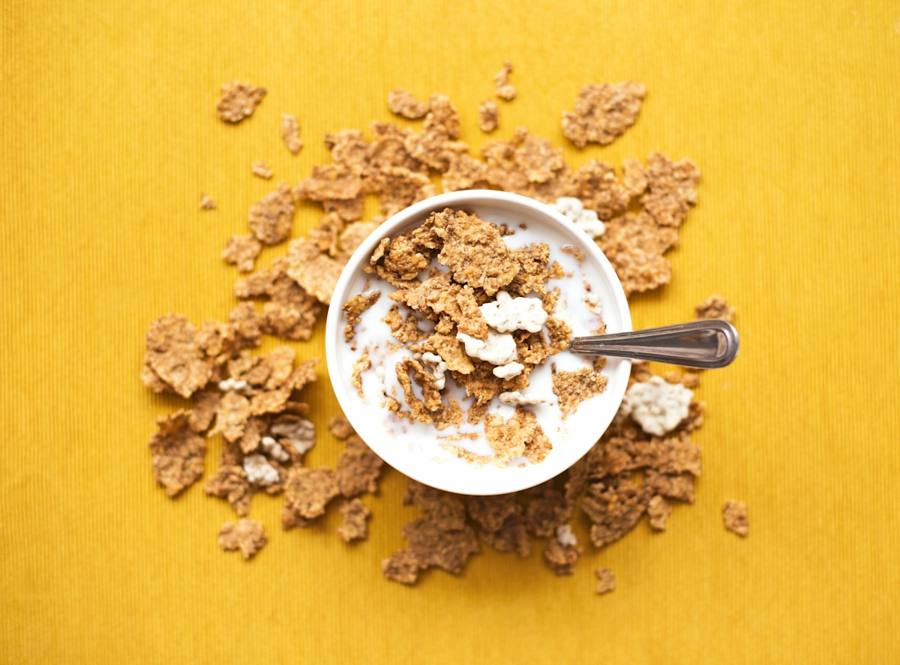
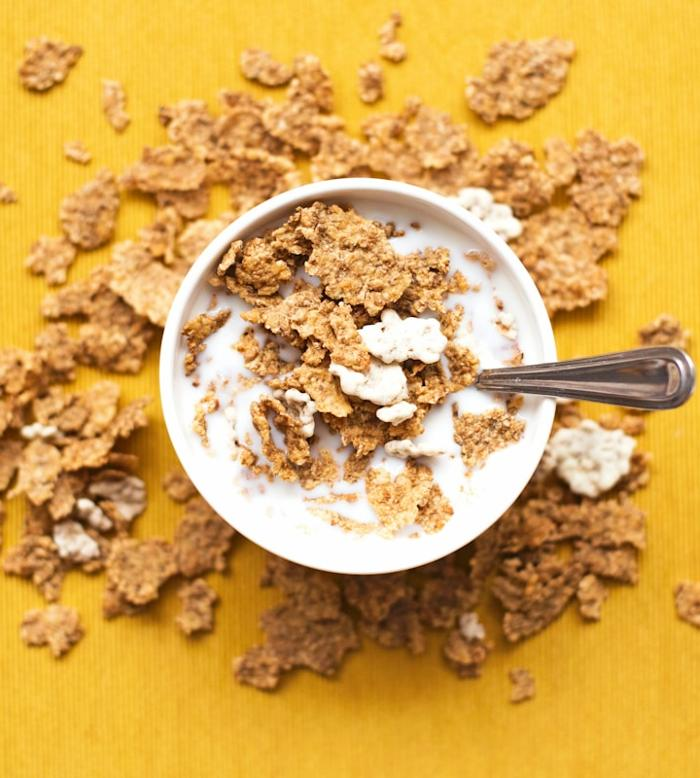
Export: resolve Daily Log Food name/Barcode (auto); centre bg bowl
Export: the fresh workbook left Daily Log F/G (Food name / Barcode "auto")
blank because it has no INDEX/MATCH formulas — so the dietitian saw a bare
code per occasion. Now resolves them to static values from the Library by
code (photo entries with no code stay blank). Library J/K (Times used /
Check) still left to the template's aggregates. +2 tests.

Background: re-crop cereal-bg.jpg so the bowl is dead-centre both axes
(was ~52%/53%, reading off-centre). CACHE_NAME v32->v33.

diff --git a/js/export.js b/js/export.js
@@ -25,9 +25,16 @@ function writeHeaders(XLSX, ws, headers, row) {
 }
 
 /** Builds a fresh workbook matching files/nutritics-food-diary-v2.xlsx's
- * schema. Only ever writes the manual-entry columns — never the template's
- * own formula columns (Library J/K, Log F/G) — same rule scan_to_diary.py
- * follows, so the same free-row-detection bug can't recur here either.
+ * schema. Writes the manual-entry columns, PLUS resolves the Daily Log's
+ * "Food name (auto)" / "Barcode (auto)" columns (F/G) to static values from
+ * the Library — because this is a FRESH sheet with no INDEX/MATCH formulas to
+ * auto-fill them, so leaving them blank would force the dietitian to cross-
+ * reference every code by hand. (scan_to_diary.py leaves F/G alone because it
+ * appends to a template copy whose formulas already fill them; the PWA has no
+ * such formulas, so it fills the values itself. Library J/K — Times used /
+ * Check — are still left blank; those are cross-row aggregates the template's
+ * own formulas own, and the How-to-use Progress panel already derives the
+ * search-saving count from the Library/Log row counts.)
  * Optional guideSheets ({ howToUse, lists }, from loadGuideSheets) carries
  * the template's "How to use" and "Lists" tabs through untouched. */
 export function buildWorkbook(XLSX, { foods, logEntries, guideSheets }) {
@@ -50,13 +57,19 @@ export function buildWorkbook(XLSX, { foods, logEntries, guideSheets }) {
     if (f.nameUnconfirmed) setCell(XLSX, lib, row, LIBRARY_NOTE_COL, 'NAME UNCONFIRMED — verify against packet');
   });
 
+  const foodByCode = Object.fromEntries(foods.map((f) => [f.code, f]));
   logEntries.forEach((e, i) => {
     const row = LOG_FIRST_DATA_ROW + i;
+    const food = foodByCode[e.foodCode];
     setCell(XLSX, log, row, 1, e.day);
     setCell(XLSX, log, row, 2, e.date);
     setCell(XLSX, log, row, 3, e.meal);
     setCell(XLSX, log, row, 4, e.time);
     setCell(XLSX, log, row, 5, e.foodCode);
+    if (food) {
+      setCell(XLSX, log, row, 6, food.name); // Food name (auto) — resolved from the Library by code
+      setCell(XLSX, log, row, 7, food.barcode); // Barcode (auto) — resolved from the Library by code
+    }
     setCell(XLSX, log, row, 8, e.quantity);
     setCell(XLSX, log, row, 9, e.unit);
     setCell(XLSX, log, row, 10, e.howMeasured);

diff --git a/sw.js b/sw.js
@@ -1,4 +1,4 @@
-const CACHE_NAME = 'food-diary-v32';
+const CACHE_NAME = 'food-diary-v33';
 const SHELL_FILES = [
   './',
   './index.html',